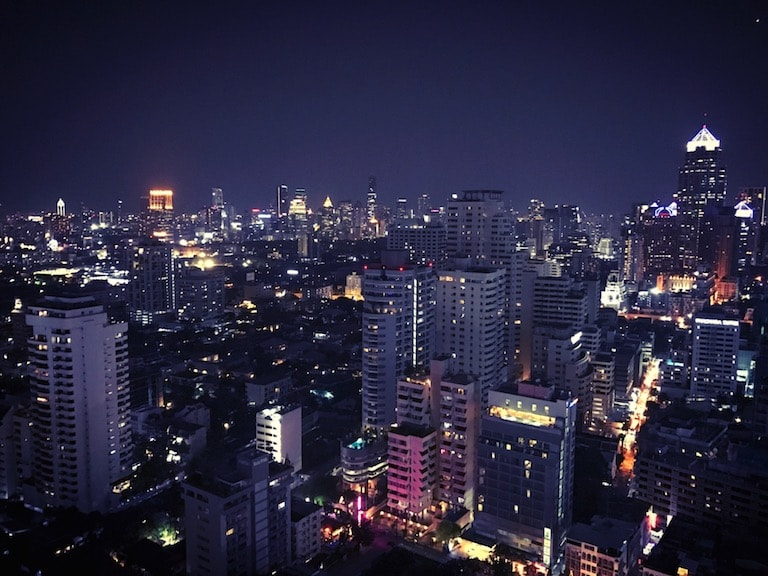
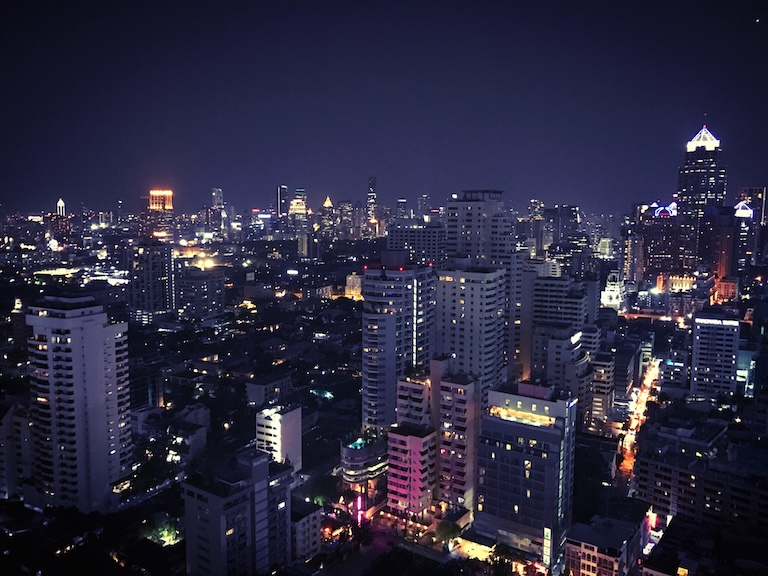
Bangkok large image added. + Second picture of Bologna removed.

Changed region(s): [[0.8438, 0.3438, 0.875, 0.375], [0.8125, 0.7188, 0.8438, 0.75]]

diff --git a/index.html b/index.html
@@ -140,7 +140,7 @@
           </article>
           <article class="photo-card" data-region="Asia" data-country="Thailand">
             <button class="photo-open" type="button" aria-label="Open photo: Bangkok, Thailand">
-              <img src="resources/travel-photos/bangkok.jpg" alt="Rooftop-Aussicht auf Bangkok bei Nacht, Thailand" loading="lazy">
+              <img src="resources/travel-photos/bangkok.jpg" data-full="resources/travel-photos/bangkok-large.jpg" alt="Bangkok, Thailand" loading="lazy">
               <span class="photo-card__zoom" aria-hidden="true">↗</span>
             </button>
             <div class="photo-card__text"><h3>Bangkok, Thailand</h3><p>Bangkok by night. Nuff said.</p></div>
@@ -228,13 +228,6 @@
               <span class="photo-card__zoom" aria-hidden="true">↗</span>
             </button>
             <div class="photo-card__text"><h3>Piazza Maggiore, Bologna, Italy</h3><p>Bologna's living room – where people-watching is free. You only pay for the gelato.🍦</p></div>
-          </article>
-          <article class="photo-card" data-region="Europe" data-country="Italy">
-            <button class="photo-open" type="button" aria-label="Open photo: Bologna, Italy">
-              <img src="resources/travel-photos/bologna3.jpg" data-full="resources/travel-photos/bologna3-large.jpg" alt="Bologna, Italy" loading="lazy">
-              <span class="photo-card__zoom" aria-hidden="true">↗</span>
-            </button>
-            <div class="photo-card__text"><h3>Bologna, Italy</h3><p>A little window onto the city's hidden canals – Bologna's answer to Venice, minus the gondolas.</p></div>
           </article>
           <article class="photo-card" data-region="North America" data-country="USA">
             <button class="photo-open" type="button" aria-label="Open photo: Dallas, USA">
